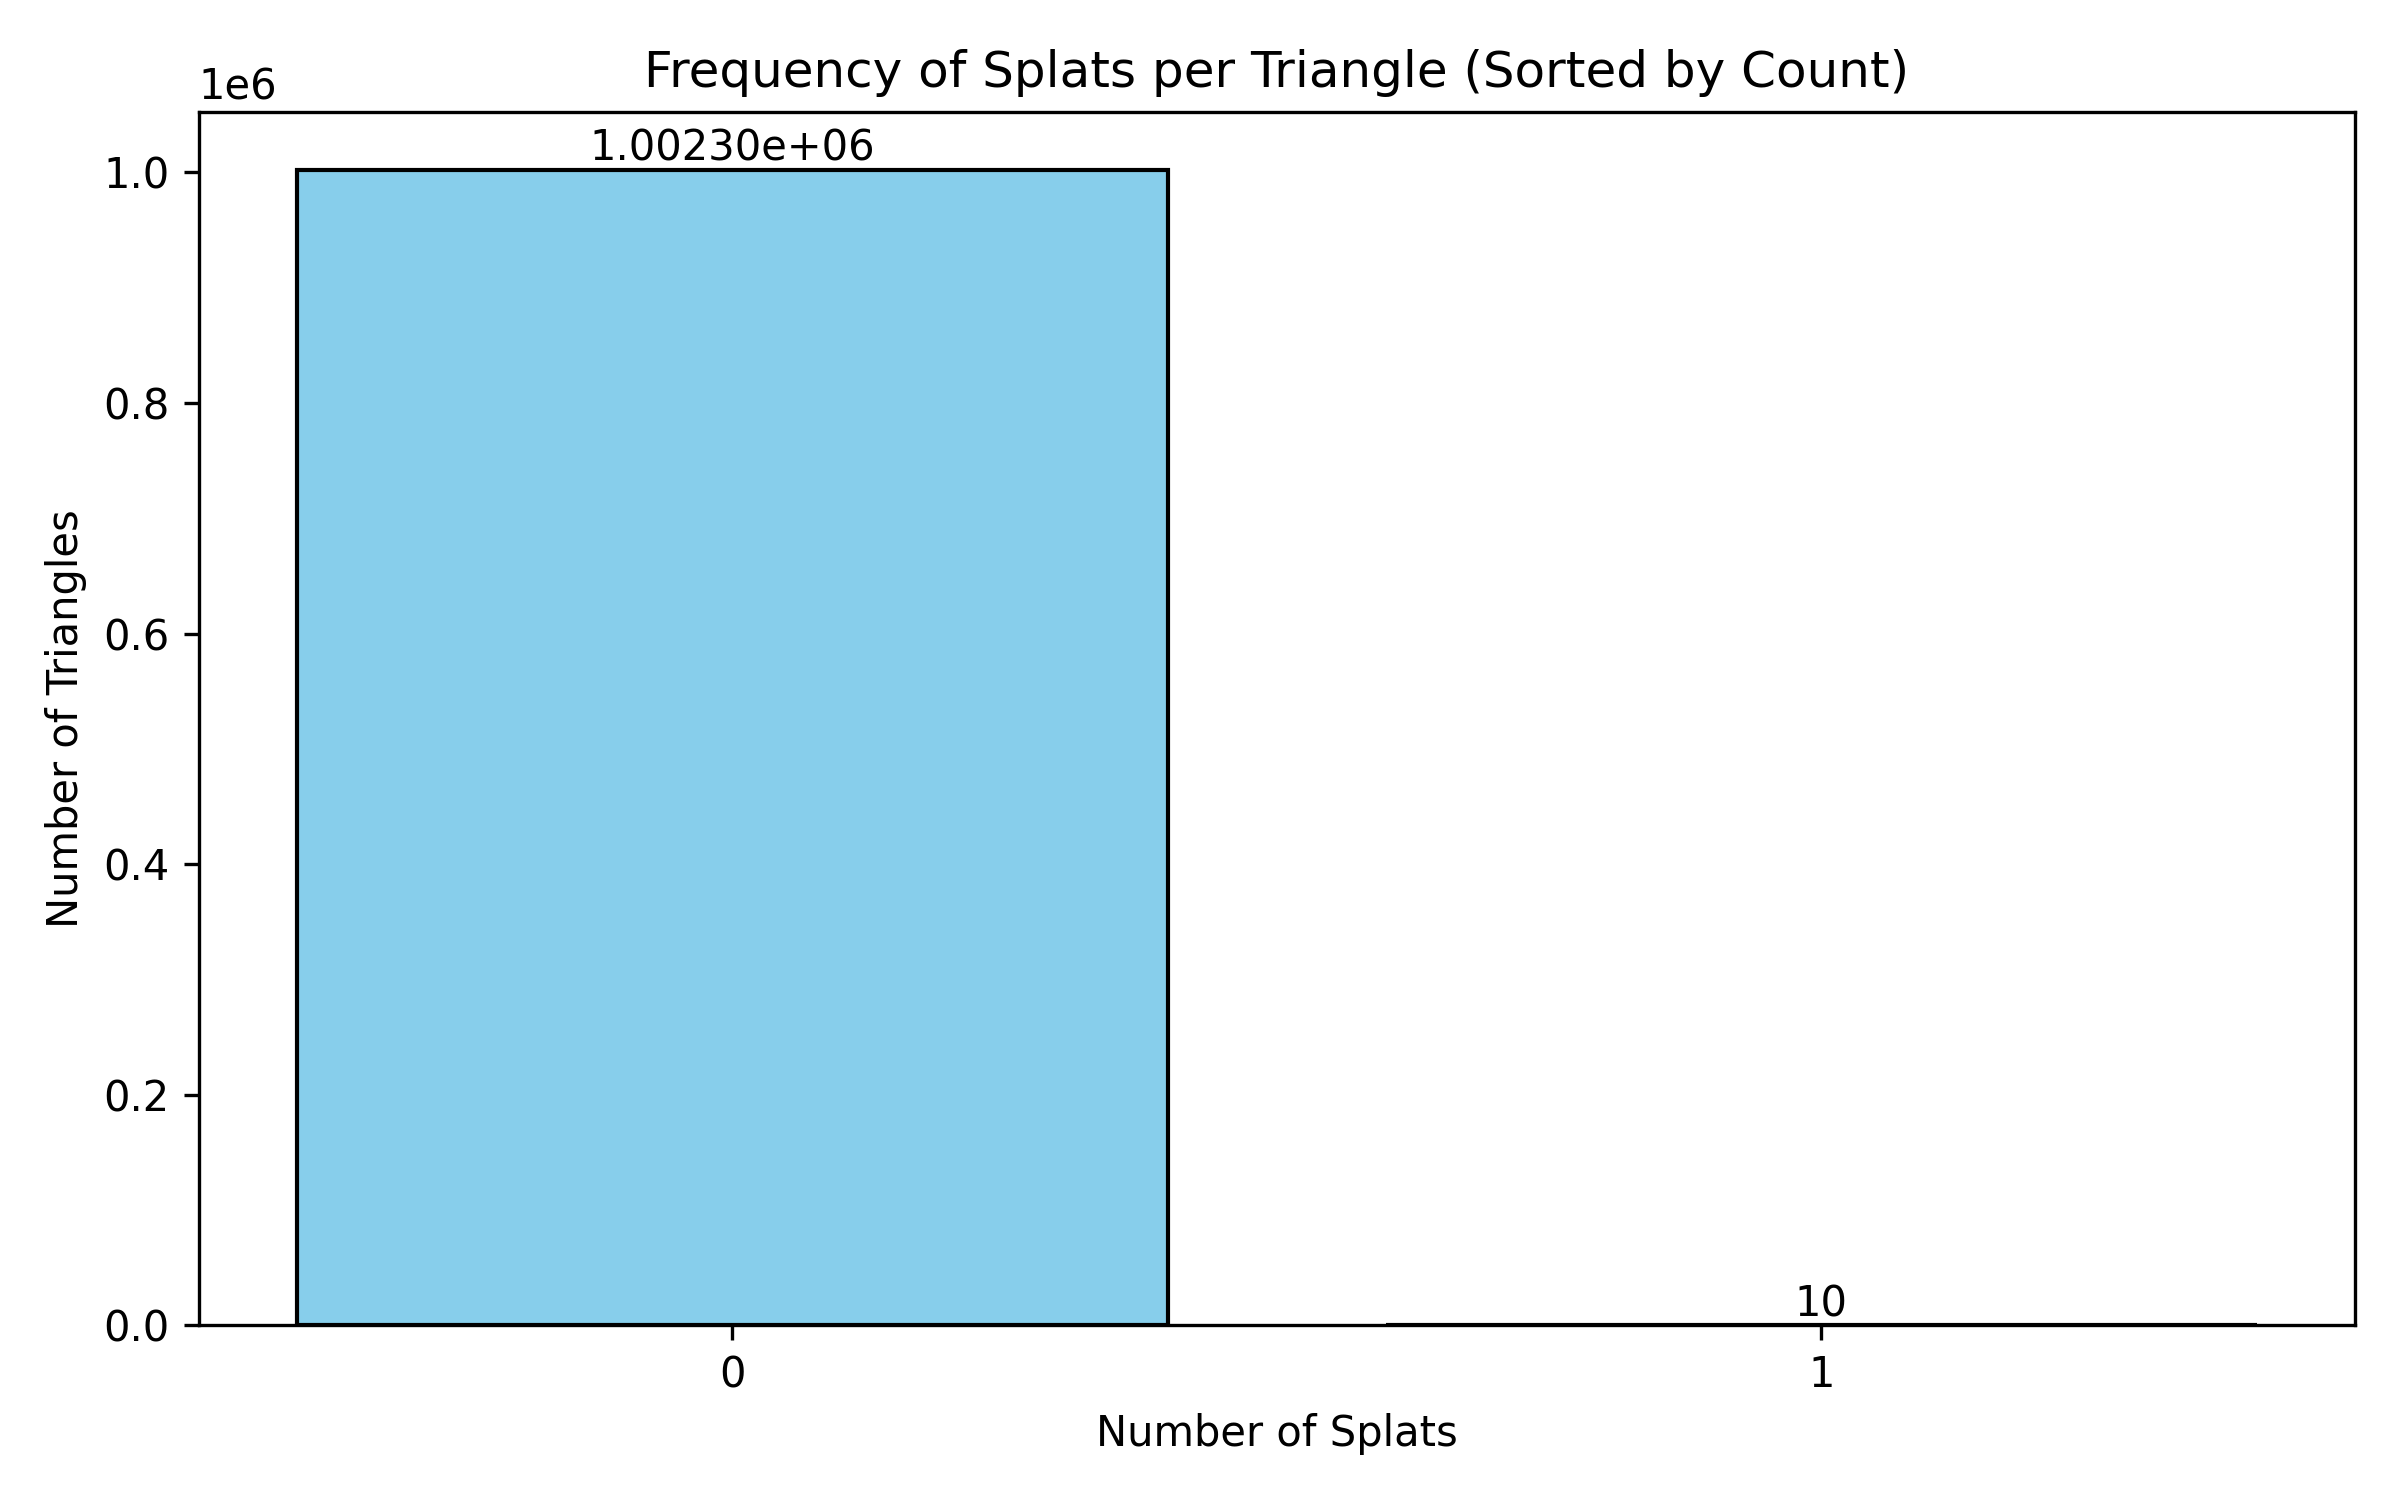
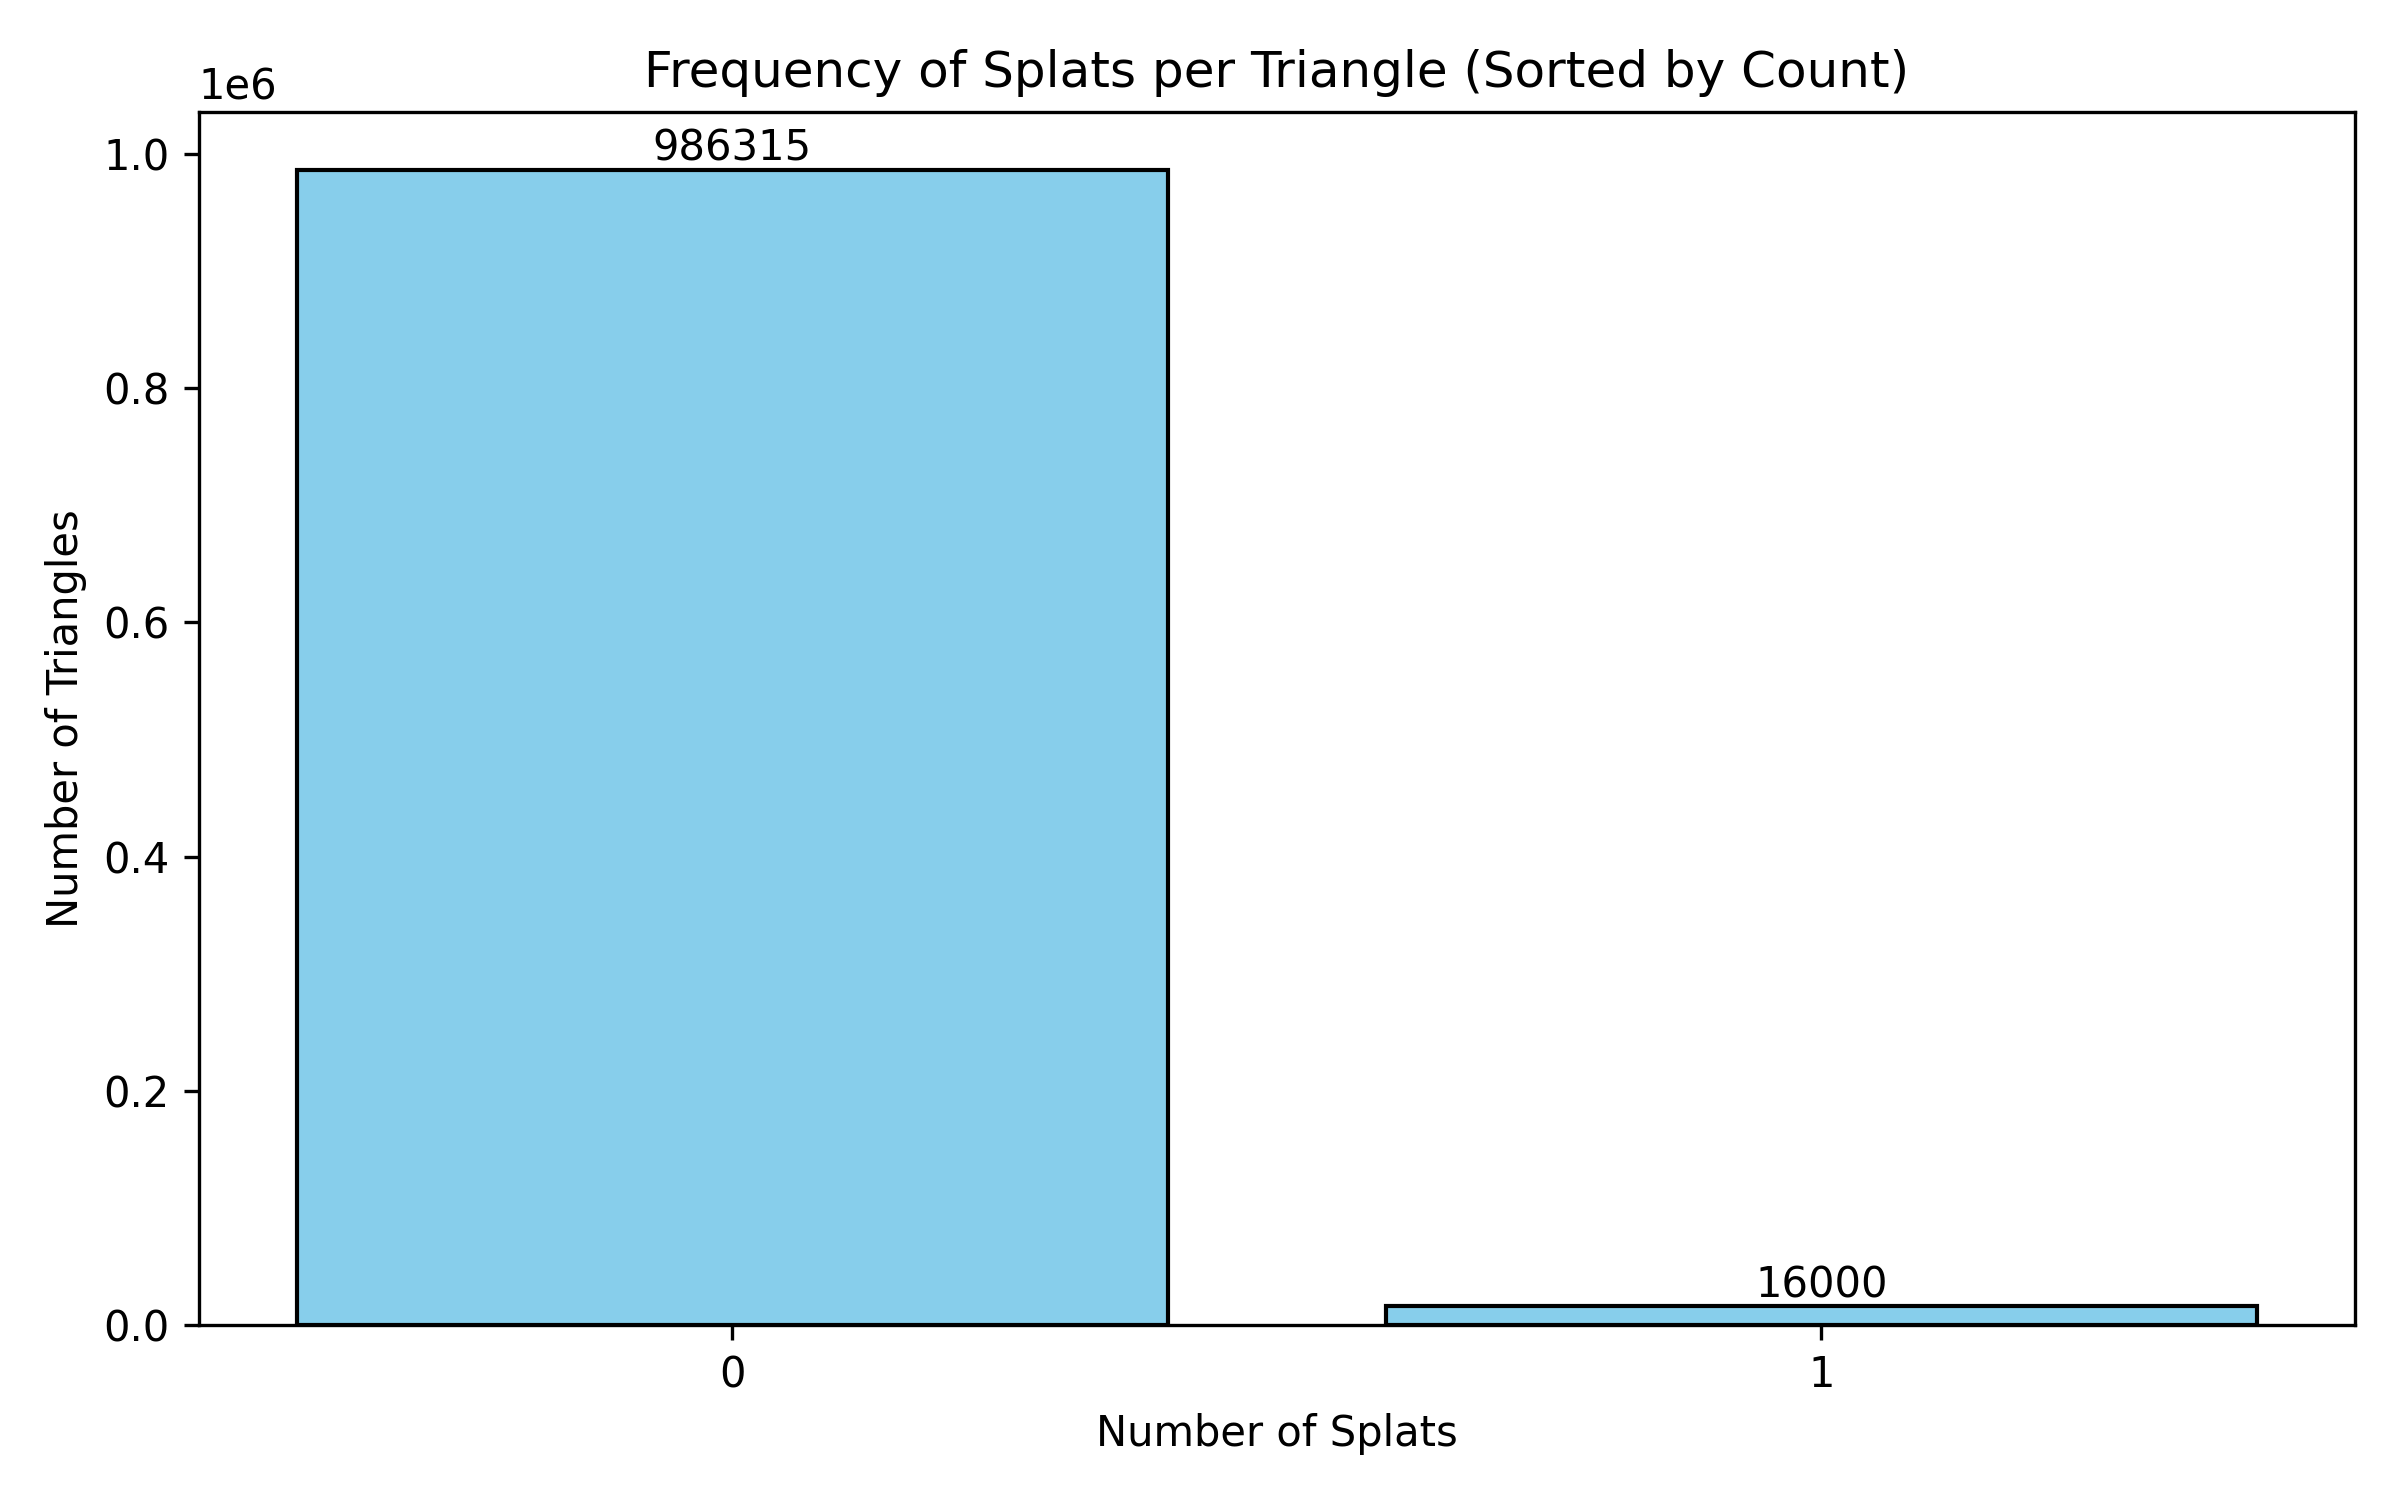
Copy the previous 3DGS during warnuup. Freeze the 3DGS from previous round during training.

diff --git a/train_progressive.py b/train_progressive.py
@@ -79,6 +79,19 @@ import matplotlib.cm as cm
 # [good to have] loss-informed stop criteria
 LOSS_CONVG_THRESH = 0.01
 
+def frozen_mask(foundation_num_splats_per_triangle, total_num_splats_per_triangle):
+    idx_list = []
+    current_foundation_gs_idx = 0
+    current_total_gs_idx = 0
+    for tri_idx, (num_splats_total, num_splats_foundation) in enumerate(zip(total_num_splats_per_triangle, foundation_num_splats_per_triangle)):
+        if num_splats_foundation == 0:
+            pass
+        else:
+            with torch.no_grad():
+                idx_list.extend([i for i in range(current_total_gs_idx, current_total_gs_idx+num_splats_foundation)])
+        current_foundation_gs_idx += num_splats_foundation
+        current_total_gs_idx += num_splats_total
+    return idx_list
 
 def training(gs_type, dataset, opt, pipe, testing_iterations, saving_iterations, checkpoint_iterations, checkpoint,
             debug_from, save_xyz,
@@ -89,9 +102,9 @@ def training(gs_type, dataset, opt, pipe, testing_iterations, saving_iterations,
             policy_path,
             precaptured_mesh_img_path,
             mesh_rasterizer_type="pytorch3d",
-            based_gs_path=None,
             load_gs_path=None,
-            start_iteration=0
+            start_iteration=0,
+            foundation_pt_path=None
             # <<<< [YC] add
             ):
     
@@ -144,6 +157,15 @@ def training(gs_type, dataset, opt, pipe, testing_iterations, saving_iterations,
     background_depth_pt_path = "/mnt/data1/syjintw/NEU/dataset/hotdog/mesh_depth/r_0.pt"
     background_depth = torch.load(background_depth_pt_path).unsqueeze(0)
 
+    # Trick part
+    if foundation_pt_path is not None:
+        # foundation_pt = torch.load("/mnt/data1/syjintw/MMSys26_extension/layered-mesh-gaussian/output/progressive/hotdog/exp_gs_110_iteration_200/gs_100_iteration_0/point_cloud/iteration_500/model_params.pt")
+        foundation_pt = torch.load(foundation_pt_path)
+        # total_pt = torch.load("/mnt/data1/syjintw/MMSys26_extension/layered-mesh-gaussian/output/progressive/hotdog/exp_gs_110_iteration_200/gs_10_iteration_500/point_cloud/iteration_500_warmup/model_params.pt")
+        frozen_idx_list = frozen_mask(foundation_pt["num_splats_per_triangle"], gaussians.num_splats_per_triangle)
+        frozen_idx_list = torch.tensor(frozen_idx_list, dtype=torch.long, device="cuda")
+        # print(frozen_idx_list)
+        gaussians.setup_frozen_mask(frozen_idx_list)
     
     # ---------------------------------------------------------------------------- #
     #                              Start Training Loop                             #
@@ -554,6 +576,7 @@ if __name__ == "__main__":
     parser.add_argument("--based_gs_path", type=str, default=None, help="")
     parser.add_argument("--load_gs_path", type=str, default=None, help="path to the pretrained GS model to load for training initialization")
     parser.add_argument("--start_iteration", type=int, default=0, help="iteration number to start training from, used together with --load_gs_path")
+    parser.add_argument("--foundation_pt_path", type=str, help="path to the foundation model's .pt file, used for computing frozen mask for progressive training")
     
     lp = ModelParams(parser) # LoadingParams
     args, _ = parser.parse_known_args(sys.argv[1:])
@@ -598,9 +621,9 @@ if __name__ == "__main__":
         policy_path=args.policy_path,
         precaptured_mesh_img_path=args.precaptured_mesh_img_path,
         mesh_rasterizer_type=args.mesh_rasterizer_type,
-        based_gs_path=args.based_gs_path,
         load_gs_path=args.load_gs_path,
-        start_iteration=args.start_iteration
+        start_iteration=args.start_iteration,
+        foundation_pt_path=args.foundation_pt_path
         # <<<< [YC] add
     )
 

diff --git a/games/mesh_splatting/scene/gaussian_mesh_model.py b/games/mesh_splatting/scene/gaussian_mesh_model.py
@@ -765,5 +765,52 @@ class LMGModel(GaussianModel):
         self._scaling = nn.Parameter(torch.tensor(scales, dtype=torch.float, device="cuda").requires_grad_(False))
         self._rotation = nn.Parameter(torch.tensor(rots, dtype=torch.float, device="cuda").requires_grad_(False)) #! [YC] comment out for now
 
-        self.active_sh_degree = self.max_sh_degree    
+        self.active_sh_degree = self.max_sh_degree
+    
+    def setup_frozen_mask(self, frozen_indices):
+        """
+        設定哪些 Gaussians 需要被凍結（在訓練時不更新參數）。
+        參數:
+            frozen_indices (torch.Tensor): 包含需要凍結的索引的 1D Tensor。
+        """
+        # 1. 取得當前的設備與總數量，確保變數都在同一個 GPU 上
+        device = self._xyz.device
+        total_num = self._xyz.shape[0]
+        
+        # 確保傳入的 index 也在正確的 device 上
+        frozen_indices = frozen_indices.to(device)
+
+        # 2. 建立 Boolean Mask (預設全為 False，代表都要訓練)
+        self.frozen_mask = torch.zeros(total_num, dtype=torch.bool, device=device)
+        
+        # 將名單上的點設為 True (代表要凍結)
+        self.frozen_mask[frozen_indices] = True
+
+        # 3. 定義攔截梯度的 Hook 函數
+        def freeze_hook(grad):
+            # 為了避免 PyTorch 抱怨 in-place 修改破壞計算圖，我們 clone 一份梯度
+            new_grad = grad.clone()
+            # 將 mask 為 True 的位置，梯度強行歸零
+            new_grad[self.frozen_mask] = 0.0
+            return new_grad
+
+        # 4. 將 Hook 註冊到所有 3DGS 的核心參數上
+        # 配合你的 training_setup，更新需要綁定 Hook 的參數名單
+        parameters_to_freeze = [
+            # 'vertices',       # 修改這裡 (對應原本的 _xyz)
+            '_alpha',         # 修改這裡 (對應原本的 _rotation 或其他特徵)
+            '_features_dc', 
+            '_features_rest', 
+            '_opacity', 
+            '_scale'          # 修改這裡 (對應原本的 _scaling)
+        ]
+
+        for param_name in parameters_to_freeze:
+            if hasattr(self, param_name):
+                param = getattr(self, param_name)
+                # 確保該變數存在，且真的有在計算梯度才掛上 Hook
+                if param is not None and param.requires_grad:
+                    param.register_hook(freeze_hook)
+                    
+        print(f"[Info] 成功凍結了 {len(frozen_indices)} / {total_num} 個 Gaussians！")  
         
